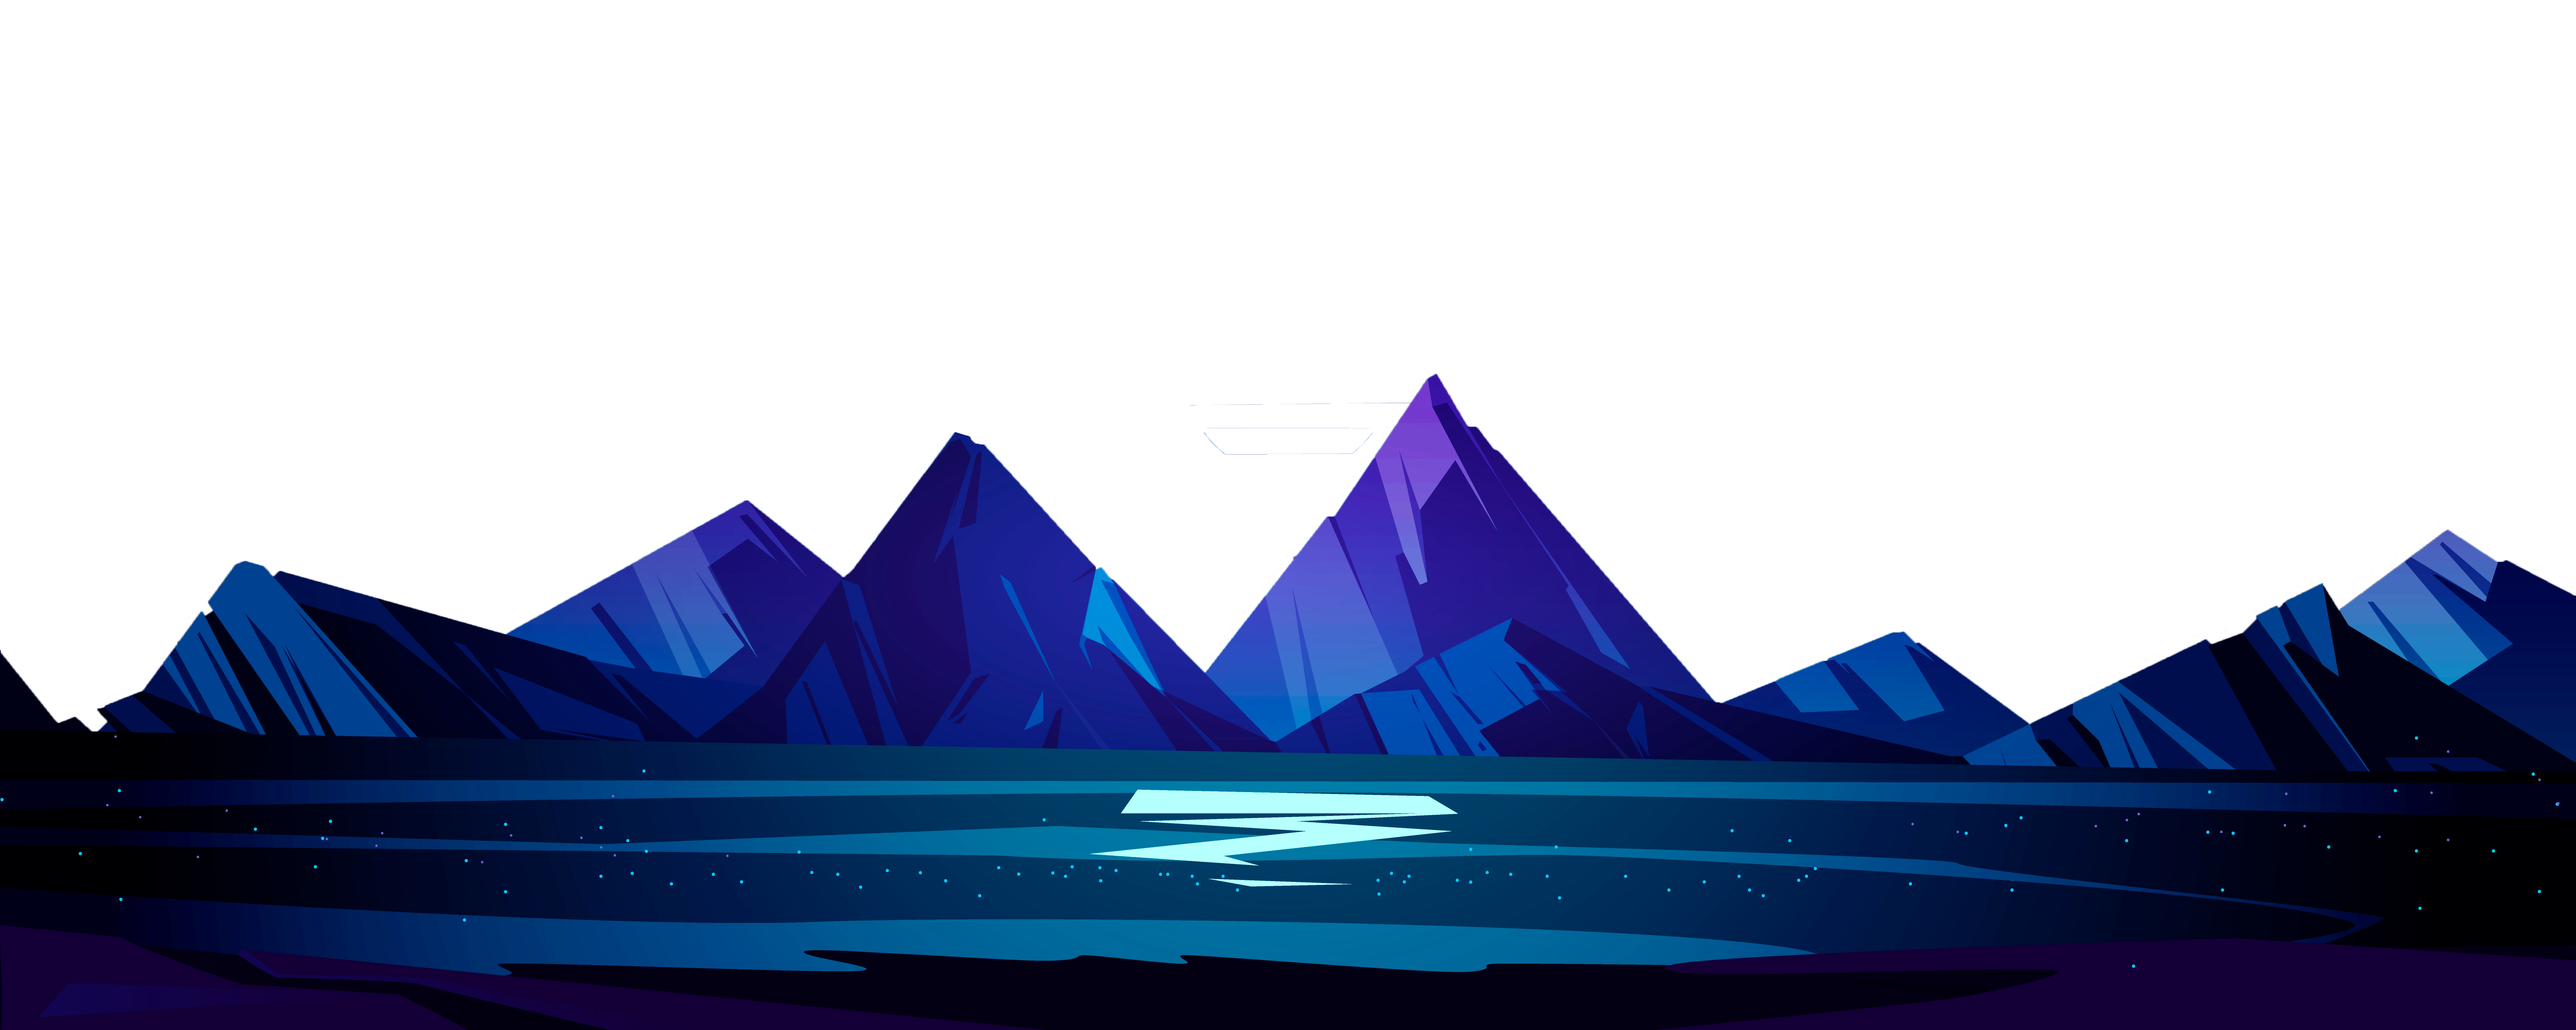
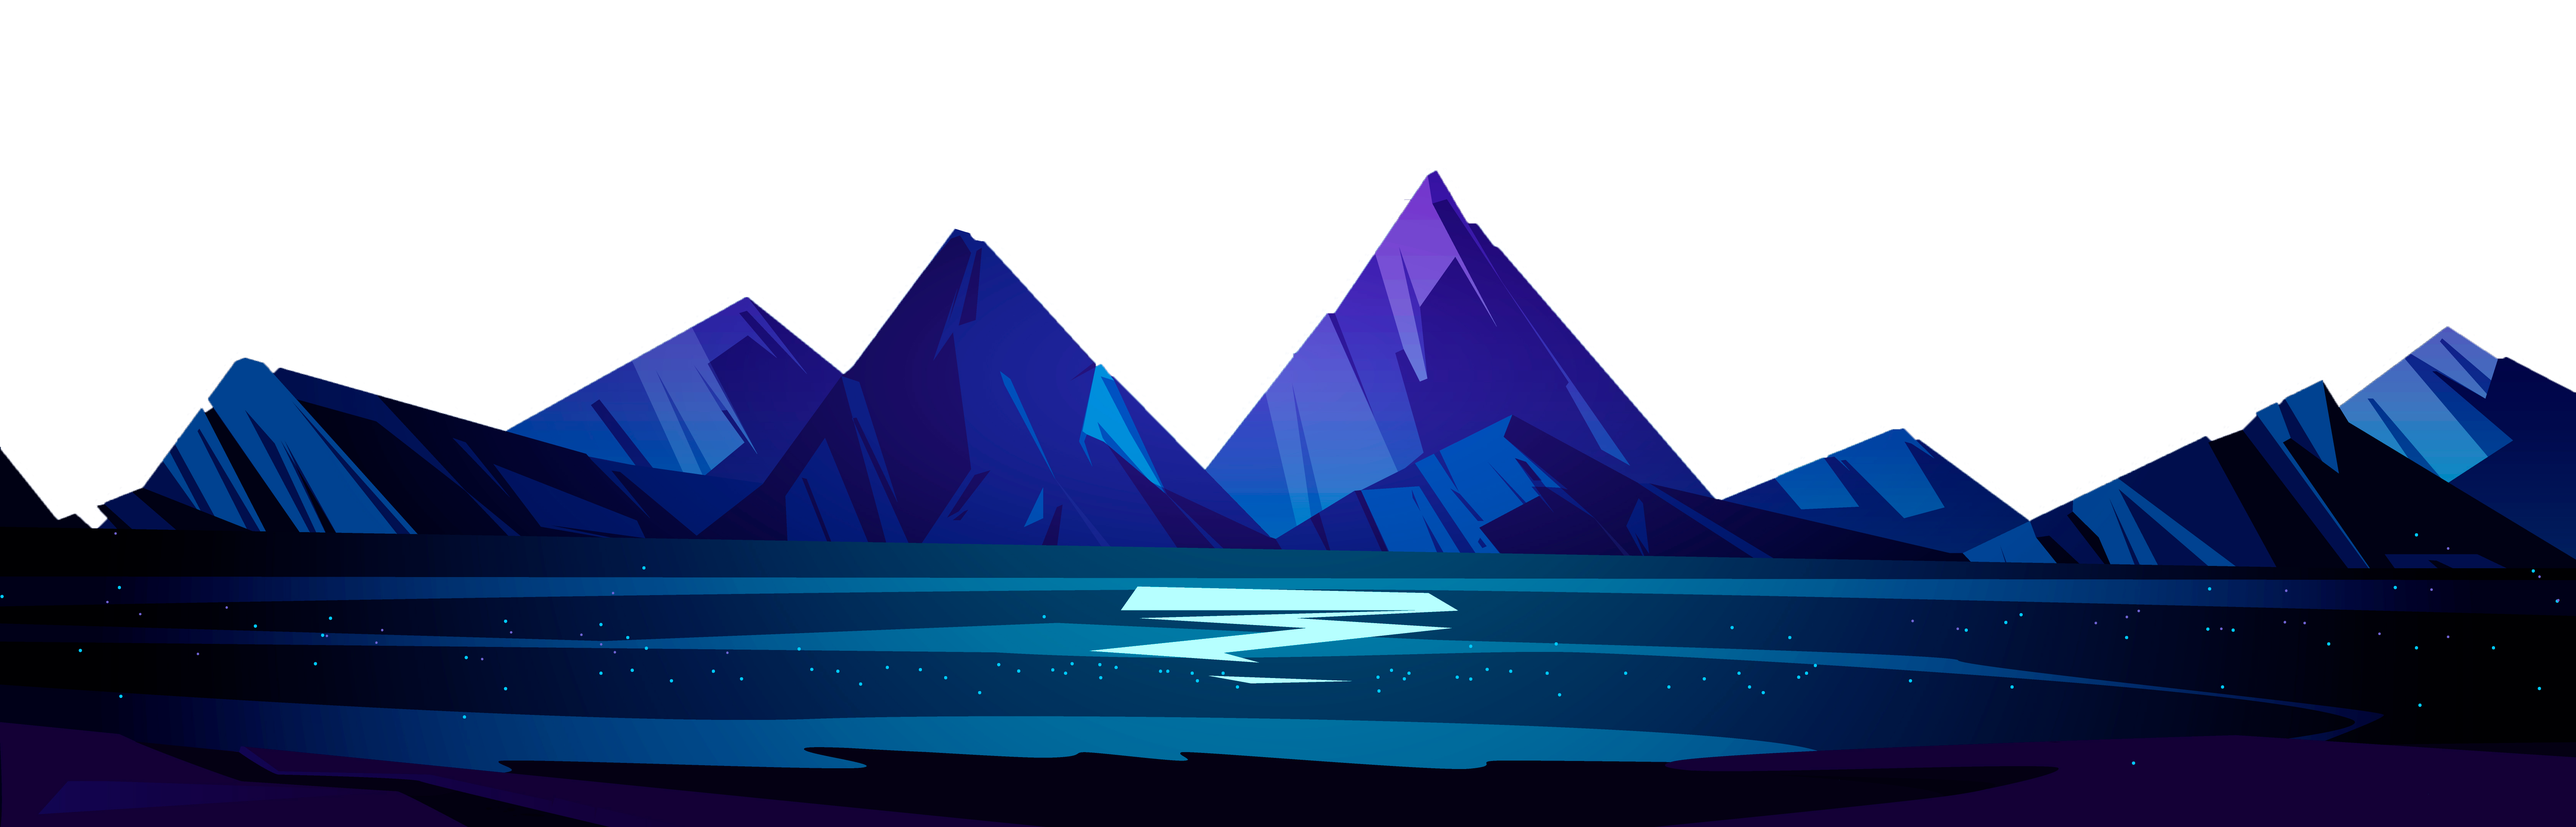
corrigido movimento do efeito parallax

Changed region(s): [[0.0, 0.2177, 1.0, 0.9954]]

diff --git a/src/index.html b/src/index.html
@@ -14,7 +14,7 @@
         integrity="sha384-ENjdO4Dr2bkBIFxQpeoTz1HIcje39Wm4jDKdf19U8gI4ddQ3GYNS7NTKfAdVQSZe"
         crossorigin="anonymous"></script>
 </head>
-<body>
+<body class="cor-fundo">
     <script src="js/script.js"></script>
     <nav class="navbar navbar-expand-lg py-3 cabecalho" data-bs-theme="dark">
         <div class="container-fluid px-5">
@@ -58,52 +58,24 @@
             </div>
         </div>
     </nav>
-
-
-
-    <section class="parallax">
-        <img src="assets/effect-parallax/0-fundo-limpo.png" class="fundo-0" alt="" id="fundo0">
-        <img src="assets/effect-parallax/1-fundo-medio.png" class="fundo-1" alt="" id="fundo1">
-        <img src="assets/effect-parallax/2-fundo-alto.png" class="fundo-2" alt="" id="fundo2">
+    <section class="pagina">
+        <div class="parallax">
+            <img src="assets/effect-parallax/0-fundo-limpo.png" class="fundo-0" alt="" id="fundo0">
+            <img src="assets/effect-parallax/1-fundo-medio.png" class="fundo-1" alt="" id="fundo1">
+            <img src="assets/effect-parallax/2-fundo-alto.png" class="fundo-2" alt="" id="fundo2">
+        </div>
     </section>
 
     <section class="sec">
+        <h1 class="text-white">Titulo da página</h1>
         <p class="text-white">Lorem ipsum dolor sit amet consectetur adipisicing elit. Cupiditate voluptatum ratione
             fugiat delectus sint
             pariatur ea ex. Accusamus eos consequatur cumque doloribus esse voluptatem deserunt distinctio, accusantium
             maiores dolore sint?</p>
     </section>
-    <!-- <nav class="navbar navbar-expand-lg navbar-light bg-light container-fluid px-5">
-        <a class="navbar-brand" href="#">
-            <img class="d-inline-block align-top" width="100" height="30" src="/src/assets/logo-sam-skill-code.png"
-                alt="Logo da SamSkillsCode">
-        </a>
-        <button class="navbar-toggler" type="button" data-toggle="collapse" data-target="#navbarNav"
-            aria-controls="navbarNav" aria-expanded="false" aria-label="Toggle navigation">
-            <span class="navbar-toggler-icon"></span>
-        </button>
-        <div class="collapse navbar-collapse justify-content-end" id="navbarNav">
-            <ul class="navbar-nav">
-                <li class="nav-item text-end">
-                    <a class="nav-link" href="#">Sobre</a>
-                </li>
-                <li class="nav-item text-end">
-                    <a class="nav-link" href="#">Contato</a>
-                </li>
-                <li class="nav-item text-end">
-                    <a class="nav-link" href="https://github.com/seu-usuario-do-github" target="_blank">
-                        <i class="bi bi-github"></i>
-                    </a>
-                </li>
-            </ul>
-        </div>
-    </nav> -->
 
-
-
-
-    <!-- descomentar essa parte -->
-    <!-- <section class="d-flex justify-content-center">
+    <!-- <div class="conteudo-pagina">
+    <section class="d-flex justify-content-center">
 
         <div class="card">
             <div class="link">
@@ -157,5 +129,8 @@
         </ul>
     </footer>
     </div> -->
+
+    </div>
+
 
 </html>

diff --git a/src/css/style.css b/src/css/style.css
@@ -17,9 +17,9 @@ nav{
 
 .parallax{
   position: relative;
-  /* display: flex;
+  display: flex;
   justify-content: center;
-  align-items: center; */
+  align-items: center;
   height: 100vh;
 }
 
@@ -41,14 +41,21 @@ nav{
 }
 
 .parallax .fundo-2{
-  margin-top: 0%;
-  top: 62%;
+  margin-top: 26%;
+  /* top: 69%; */
+}
+.cor-fundo{
+  background: rgb(3, 0, 18);
+  position: relative;
 }
 
+.pagina{
+  margin-bottom: -14%;
+}
 .sec{
   position: relative;
-  /* background: rgb(3, 0, 18); */
   padding: 100px;
+  padding-top: 0px;
 }
 
 
@@ -223,4 +230,4 @@ header {
     height: 100%;
     box-shadow: inset 0 0 30px rgba(0, 0, 0, 0.5);
     z-index: 1;
-  } */
+  }

diff --git a/src/js/script.js b/src/js/script.js
@@ -1,3 +1,4 @@
+var inicioPaddin = 26;
 window.addEventListener('scroll', () => {
     var fundo0 = document.getElementById('fundo0');
     var fundo1 = document.getElementById('fundo1');
@@ -5,8 +6,8 @@ window.addEventListener('scroll', () => {
 
     let scroll = window.scrollY;
 
-    fundo1.style.marginTop = scroll * -0.03 + '%'
+    fundo0.style.top = scroll * 0.05 + '%'
+    fundo1.style.top = scroll * 0.03 + '%';
+    // fundo2.style.marginTop = inicioPaddin - (scroll * 0.1) + '%';
 
-    debugger
-    fundo2.style.marginTop = scroll * -0.05 + '%'
 })
